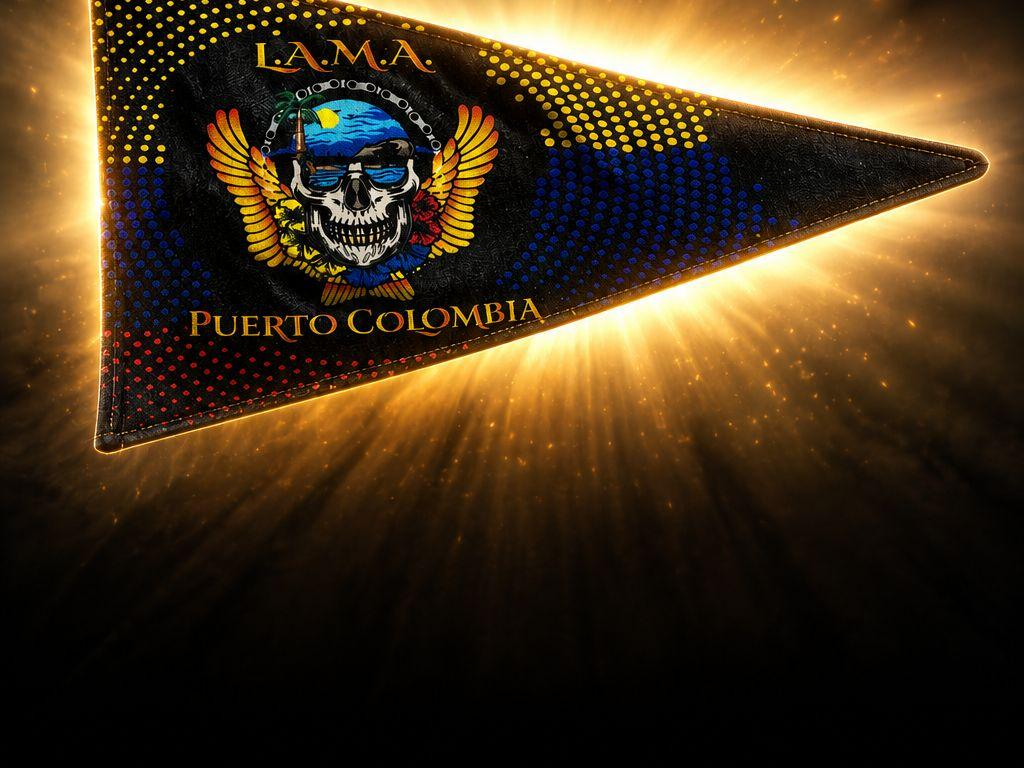
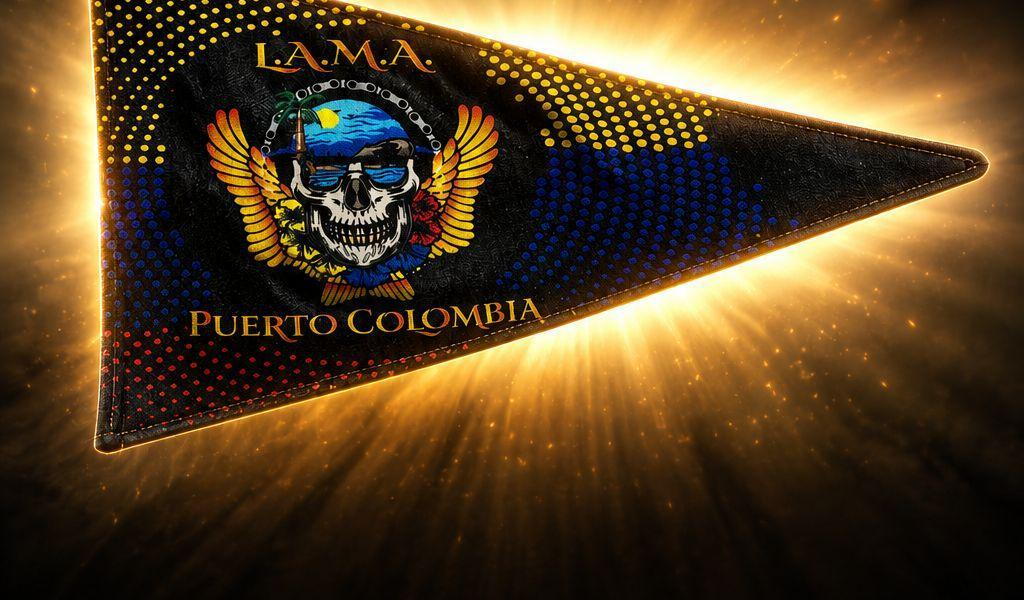
Fix: quitar todas las extensiones repetidas al buscar fotos por nombre; recorte mas ajustado del banderin

diff --git a/js/csv.js b/js/csv.js
@@ -101,6 +101,10 @@ function parseFechaLocal(fechaStr) {
 
 const EXTENSIONES_IMAGEN = ["jpg", "jpeg", "png", "gif", "webp"];
 
+function quitarExtension(nombreArchivo) {
+  return nombreArchivo.replace(/(\.(jpg|jpeg|png|gif|webp))+$/i, "");
+}
+
 async function fetchArchivosCarpeta(carpeta, extensiones) {
   const { githubOwner, githubRepo } = CONFIG;
   if (!githubOwner || !githubRepo || !carpeta) return [];
@@ -121,7 +125,7 @@ async function fetchArchivosCarpeta(carpeta, extensiones) {
 function buscarArchivoPorNombre(archivos, nombreBase) {
   const objetivo = slugify(nombreBase);
   if (!objetivo) return null;
-  return archivos.find((a) => slugify(a.name.replace(/\.[^.]+$/, "")) === objetivo) || null;
+  return archivos.find((a) => slugify(quitarExtension(a.name)) === objetivo) || null;
 }
 
 function buscarArchivosPorNombre(archivos, nombreBase) {
@@ -129,12 +133,12 @@ function buscarArchivosPorNombre(archivos, nombreBase) {
   if (!objetivo) return [];
   return archivos
     .filter((a) => {
-      const nombreSlug = slugify(a.name.replace(/\.[^.]+$/, ""));
+      const nombreSlug = slugify(quitarExtension(a.name));
       return nombreSlug === objetivo || nombreSlug.startsWith(`${objetivo}-`);
     })
     .sort((a, b) => {
-      const slugA = slugify(a.name.replace(/\.[^.]+$/, ""));
-      const slugB = slugify(b.name.replace(/\.[^.]+$/, ""));
+      const slugA = slugify(quitarExtension(a.name));
+      const slugB = slugify(quitarExtension(b.name));
       if (slugA === objetivo && slugB !== objetivo) return -1;
       if (slugA !== objetivo && slugB === objetivo) return 1;
       return slugA.localeCompare(slugB, undefined, { numeric: true });

diff --git a/js/galeria.js b/js/galeria.js
@@ -1,5 +1,5 @@
 function nombreBonito(archivo) {
-  const sinExtension = archivo.replace(/\.[^.]+$/, "");
+  const sinExtension = quitarExtension(archivo);
   return sinExtension
     .replace(/[-_]+/g, " ")
     .trim()
